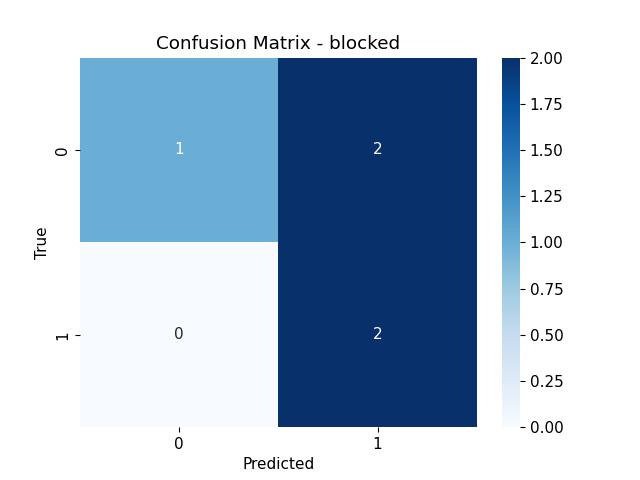
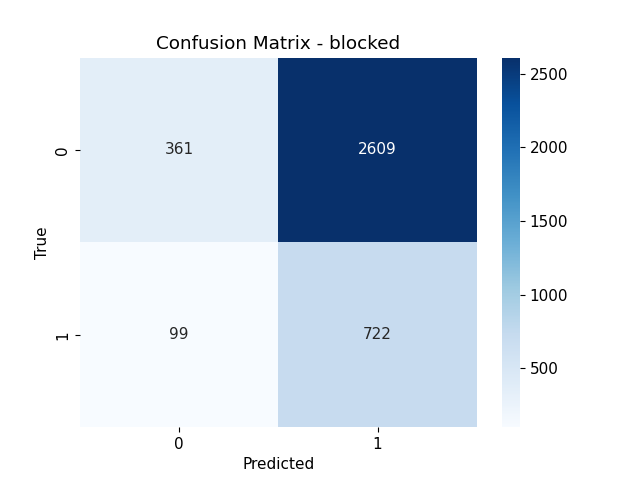
Random search fet

diff --git a/src/ZebraAI.py b/src/ZebraAI.py
@@ -424,7 +424,7 @@ def predict_img(img_path, model, **kwargs):
 
     try:
         signal.signal(signal.SIGALRM, timeout_handler)
-        signal.alarm(0.5)  # Timeout de 20 segons
+        signal.alarm(2)  # Timeout de 20 segons
 
         if not os.path.exists(path):
             print("Fitxer no trobat:", path)
@@ -603,7 +603,7 @@ weights = {
 }
 
 param_grid = {
-    'noise_option': ['median', 'gaussian', 'bilateral'],
+    'noise_option': ['median', 'gaussian', 'bilateral', 'top_hat', 'morph_max'],
     'med_k': [3, 5, 7],
     'gauss_sigma': [1.0, 1.5, 2.0],
     'bilat_d': [5, 7],
@@ -626,10 +626,9 @@ if __name__ == "__main__":
     model = torch.hub.load('../yolov5', 'custom', path='../best.pt', source='local')
     tqdm.pandas()
     df = pd.read_csv('../data/dataset.csv')
-    df_sample = df.sample(n=2000, random_state=42)
+    df_sample = df
     X, y = df_sample["file"], df_sample.drop(["file"], axis="columns")
-    X_train, X_test, y_train, y_test = train_test_split(X, y, test_size=0.75, random_state=42)
-    
+    X_train, X_test, y_train, y_test = train_test_split(X, y, test_size=0.75, random_state=42)    
     results = random_search(X_train, y_train, model)
     print("\nTop combinacions per score ponderat:")
     print("=" * 50)
